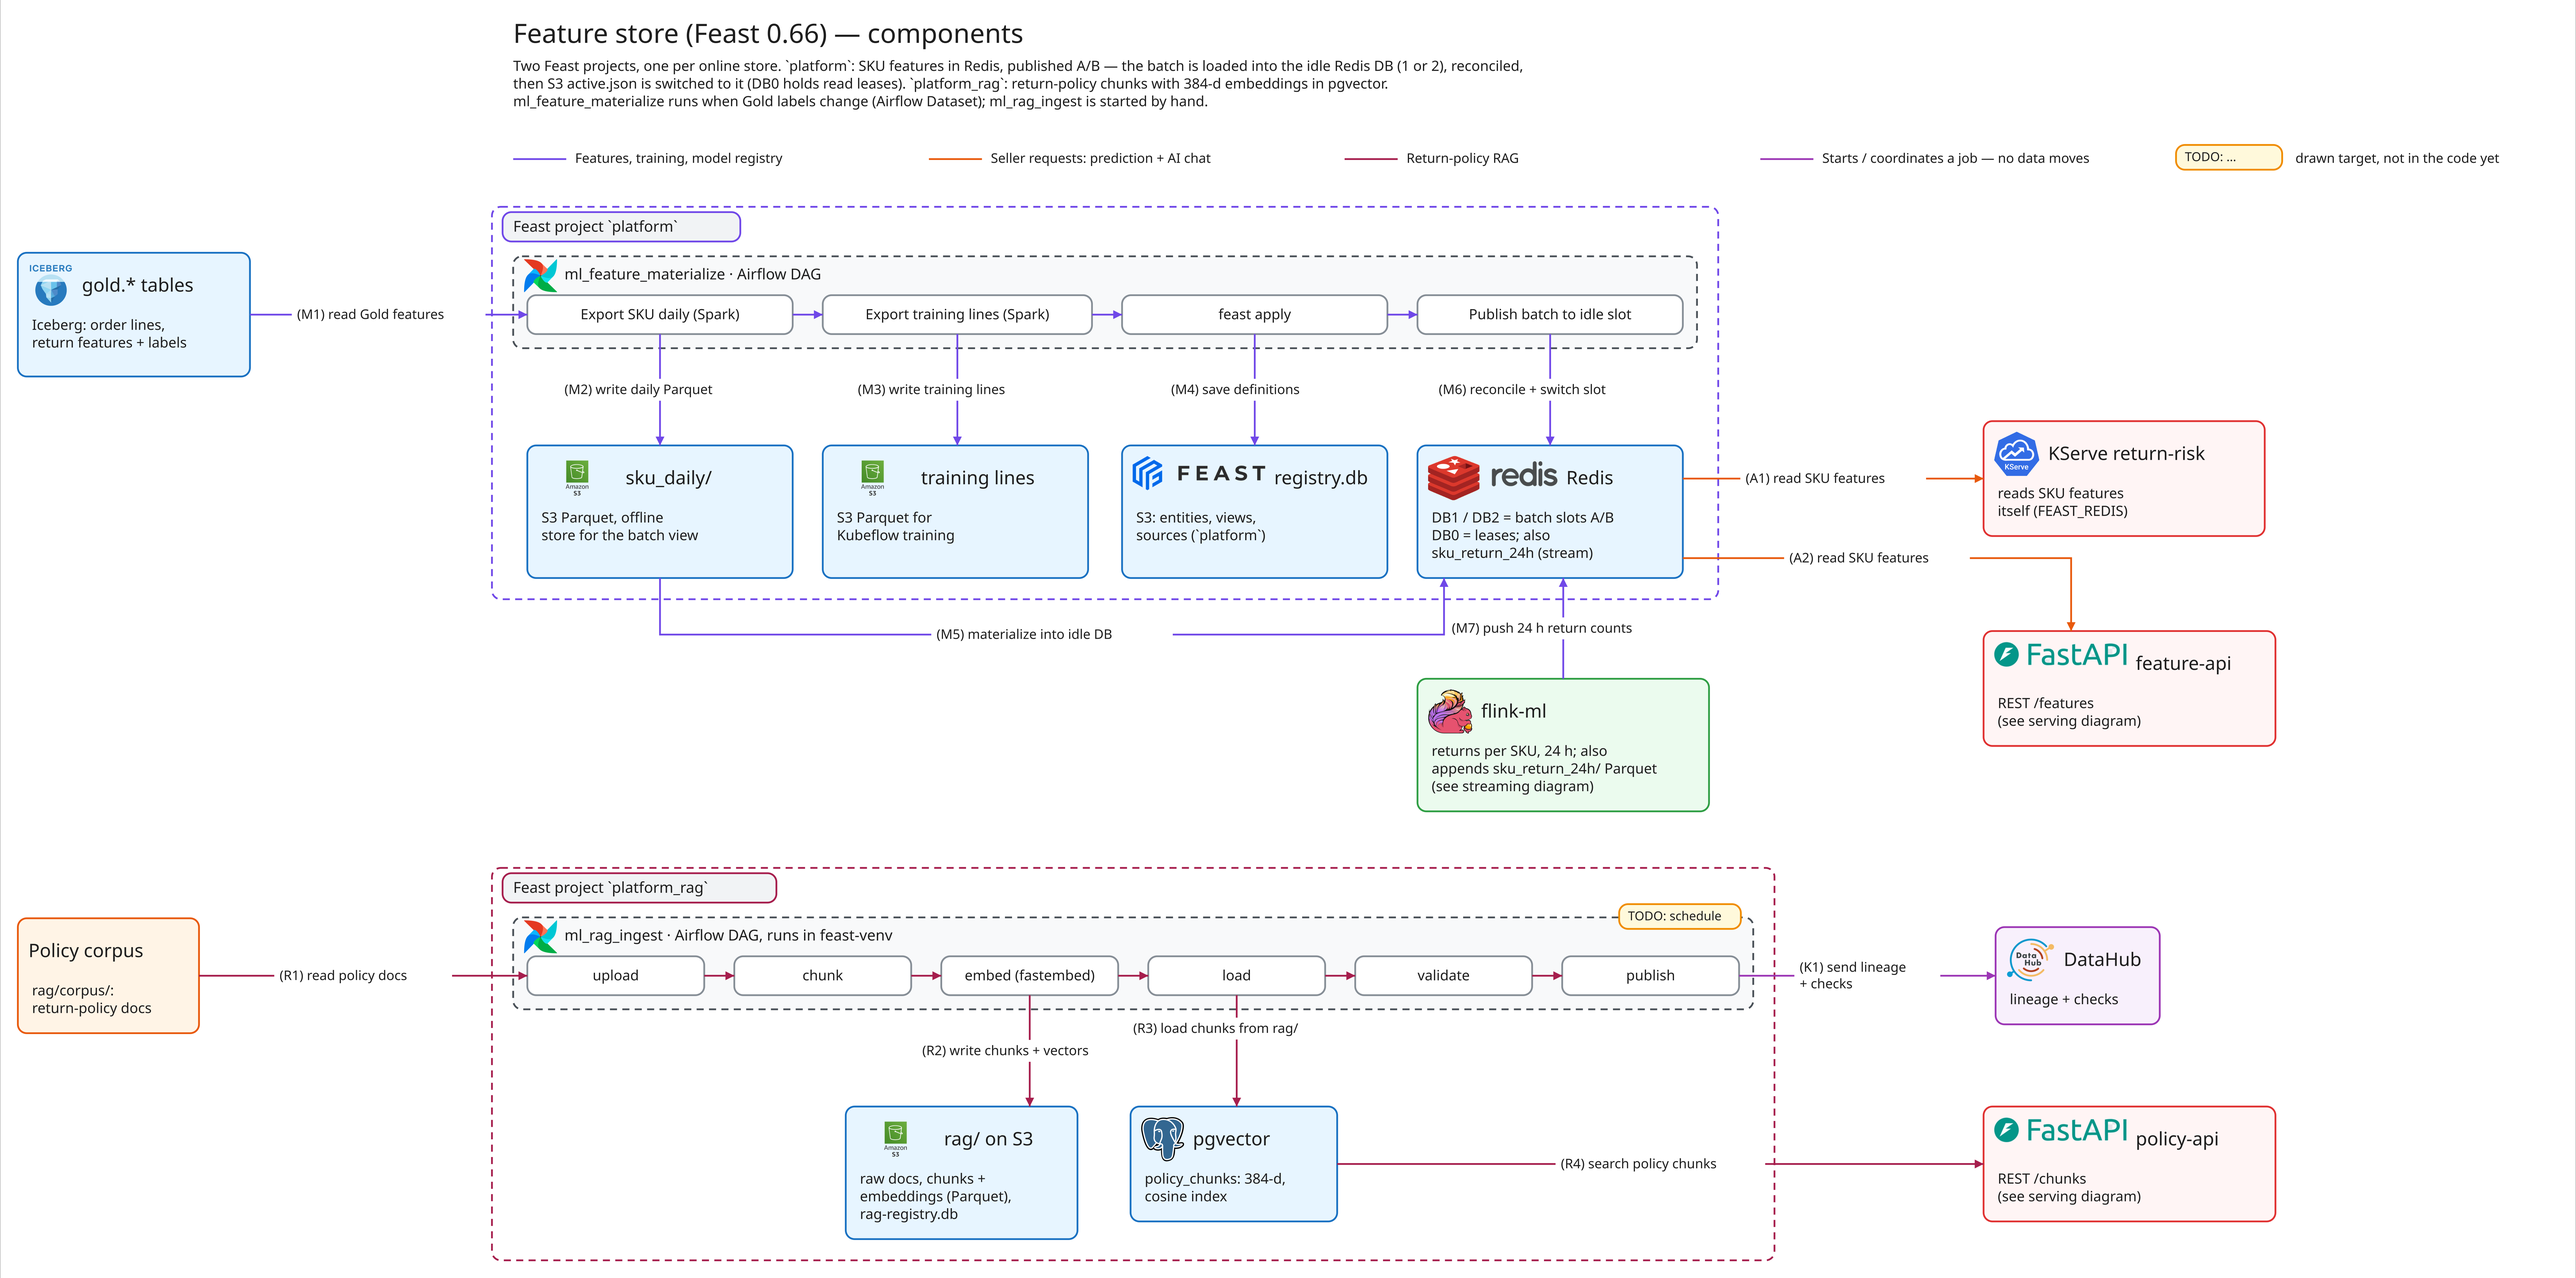
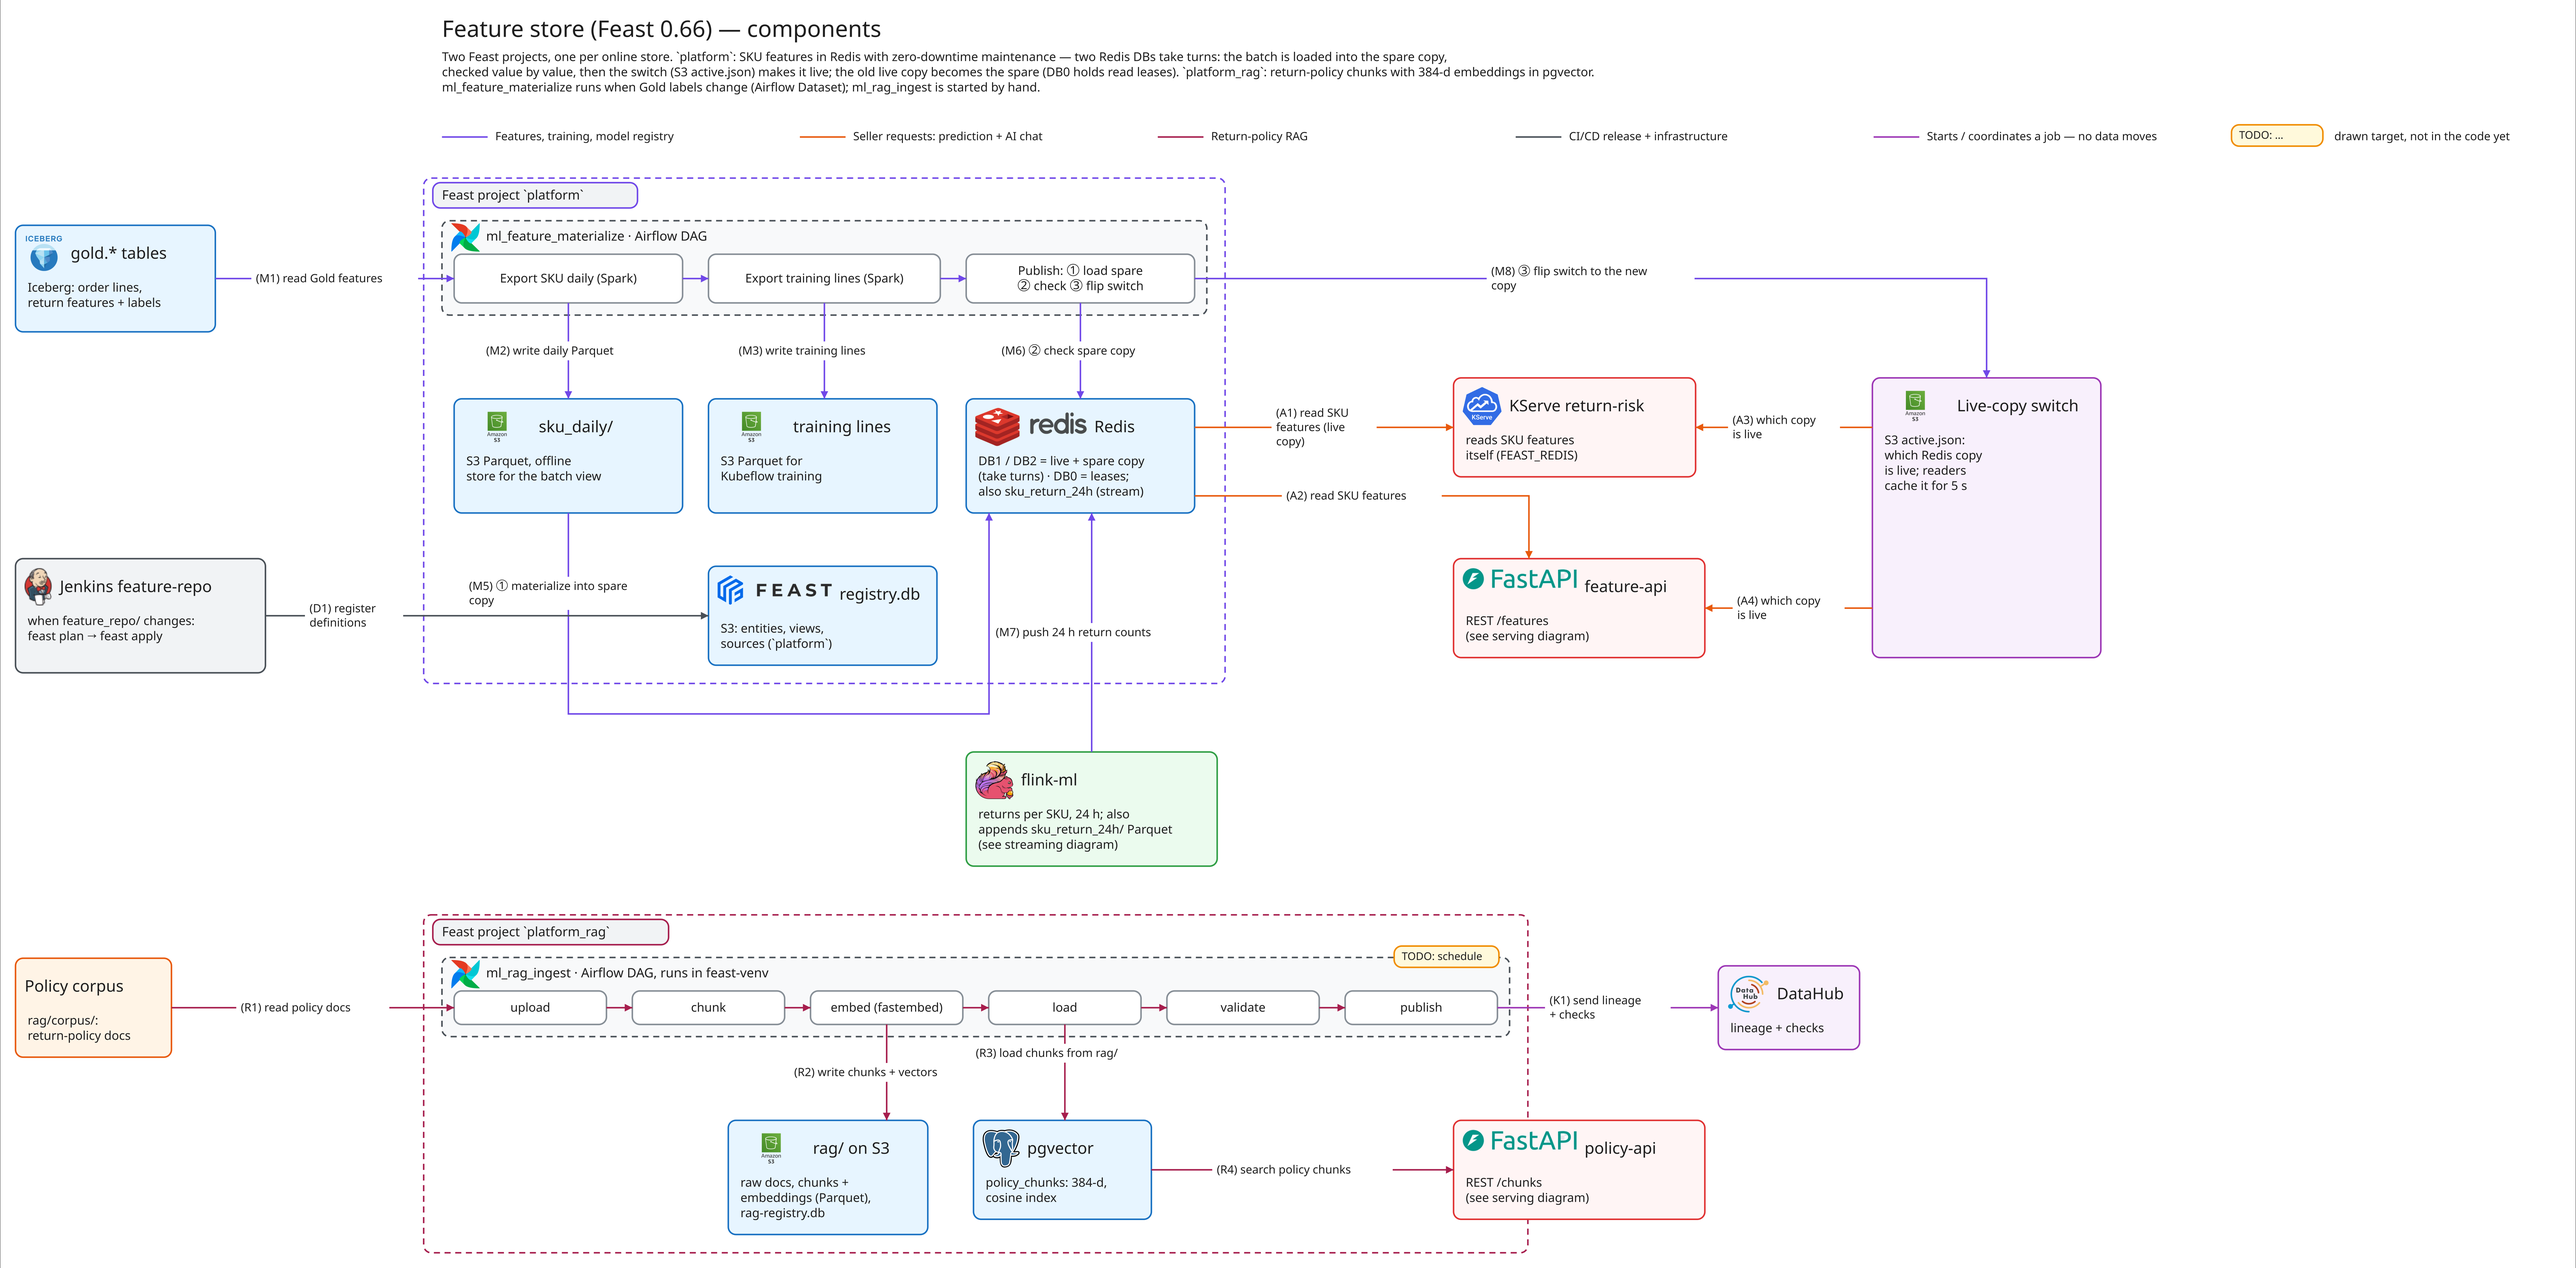
feat(feast): register feature definitions from Jenkins feature-repo, not on every batch
feast apply only matters when feature_repo/ changes, so it leaves the
ml_feature_materialize DAG; the new job runs feast plan then feast apply
inside the Airflow container through the DAG's run_feast()

diff --git a/dags/ml_feature_materialize.py b/dags/ml_feature_materialize.py
@@ -1,4 +1,7 @@
-"""ML Platform: Gold → offline Parquet/training set → apply → load/reconcile a separate batch release, then publish.
+"""ML Platform: Gold → offline Parquet/training set → load/reconcile a separate batch release, then publish.
+
+Feature definitions are registered by the Jenkins `feature-repo` job (`feast plan` → `feast apply`) when
+feature_repo/ changes, not on every new batch: it calls `run_feast` below inside the Airflow container.
 
 `end` is a SIMULATED point in time (default = Gold Cutoff), not wall-clock time: on every run the
 Publisher picks the latest snapshot per SKU up to end; the active release keeps serving while the new one loads.
@@ -66,7 +69,7 @@ def run_feast(*args, **context):
                 command.append("--full-reload")
             subprocess.run(command, cwd=repo, env=env, check=True, timeout=3600)
             return
-        if args[0] == "apply":
+        if args[0] in ("plan", "apply"):
             # The 24h stream view reads Parquet created by the pusher; where the pusher is not running (AWS), create an empty file.
             subprocess.run(
                 [FEAST_PYTHON, "-c", ENSURE_24H], cwd=repo, env=env, check=True, timeout=120
@@ -123,7 +126,6 @@ with DAG(
         packages="{{ var.value.platform_spark_packages }},org.apache.hadoop:hadoop-aws:3.3.4",
         driver_memory="1g",
     )
-    apply = PythonOperator(task_id="feast_apply", python_callable=run_feast, op_args=["apply"])
     materialize = PythonOperator(
         task_id="publish_batch",
         python_callable=run_feast,
@@ -134,4 +136,4 @@ with DAG(
             "{{ (params.end or var.value.platform_ml_cutoff) | replace('Z', '+00:00') }}",
         ],
     )
-    export >> export_training >> apply >> materialize
+    export >> export_training >> materialize

diff --git a/tests/unit/dags/test_ml_feature_materialize.py b/tests/unit/dags/test_ml_feature_materialize.py
@@ -108,3 +108,21 @@ def test_publication_operator_invokes_isolated_publisher(full_reload):
         run.call_args.kwargs["env"]["FEAST_PUBLICATION_ROOT"] == "s3://test/features/publications"
     )
     assert run.call_args.kwargs["check"] is True
+
+
+def test_dag_no_longer_registers_features():
+    """Definitions change with code, not with data: `feast apply` lives in the Jenkins feature-repo job."""
+    assert "feast_apply" not in DAG
+    jenkinsfile = (ROOT / "infra/jenkins/feature-repo.Jenkinsfile").read_text()
+    assert "run_feast('${command}')" in jenkinsfile
+    assert "FEAST_SH('plan')" in jenkinsfile and "FEAST_SH('apply')" in jenkinsfile
+    assert "'feature-repo'" in (ROOT / "infra/jenkins/jenkins.yaml").read_text()
+
+
+@pytest.mark.parametrize("command", ["plan", "apply"])
+def test_plan_and_apply_create_the_24h_offline_file_first(command):
+    """The 24h stream view needs its Parquet path to exist before Feast reads the definitions."""
+    run_feast, run = _run_feast_with_fake_runtime()
+    run_feast(command)
+    assert run.call_args_list[0].args[0] == ["feast-python", "-c", "ensure_24h"]
+    assert run.call_args_list[1].args[0] == ["feast", command]

diff --git a/docs/ml-llm-platform/feature_store.md b/docs/ml-llm-platform/feature_store.md
@@ -36,7 +36,7 @@ The four tasks do the following:
 
 1. `export_sku_daily` calls [export SKU features](../../spark_jobs/gold/export_sku_daily_features.py).
 2. `export_training_lines` calls [export training set](../../spark_jobs/gold/export_training_lines.py), keeping only labels available before the 2026-06-30 Cutoff.
-3. `feast_apply` registers the [feature repo](../../feature_repo/feature_store.yaml). This task's log shows credentials are taken from the EC2 IAM role.
+3. `feast_apply` registers the [feature repo](../../feature_repo/feature_store.yaml). This task's log shows credentials are taken from the EC2 IAM role. (Task of the DAG at the time of this run; registering definitions has since moved to the Jenkins [`feature-repo`](../../infra/jenkins/feature-repo.Jenkinsfile) job, `feast plan` → `feast apply`, run when `feature_repo/` changes, because new data does not change the definitions.)
 4. `materialize_incremental` loads the new time range of `sku_return_daily` into Redis. (Task name at the time of this run; the DAG now runs `publish_batch` instead, see [Data path](#data-path).)
 
 ![Airflow ml_feature_materialize: export_sku_daily, export_training_lines, feast_apply, materialize_incremental all success](../evidence/aws/ml-feature-materialize-graph-20261029.png)

diff --git a/docs/ml-llm-platform/stream_features.md b/docs/ml-llm-platform/stream_features.md
@@ -46,8 +46,9 @@ Running on EC2 (the AWS overlay is already set in `COMPOSE_FILE`):
 #   ansible-playbook -i inventory.ini site.yml --ask-vault-pass        (directory infra/aws/ansible)
 # In the EC2 session, cd /opt/platform:
 sudo install -d -o 9999 -g 9999 /mnt/platform-data/flink-ml
-# Point the registry's offline source to the part directory (only the feast_apply task, no Spark export):
-docker compose --profile airflow exec airflow airflow tasks test ml_feature_materialize feast_apply "$(date -u +%F)"
+# Point the registry's offline source to the part directory (what the Jenkins feature-repo job runs, no Spark export):
+docker compose --profile airflow exec airflow python -c \
+  "import sys; sys.path.insert(0, '/opt/airflow/dags'); from ml_feature_materialize import run_feast; run_feast('apply')"
 docker compose --profile stream --profile flink-ml up -d --wait kafka flink-ml-jobmanager flink-ml-taskmanager
 # Delete the old topic: messages from the Oct 30–31 run carry publish-time timestamps, which make the watermark jump incorrectly.
 docker compose --profile stream exec -T kafka /opt/kafka/bin/kafka-topics.sh --bootstrap-server localhost:9092 \
